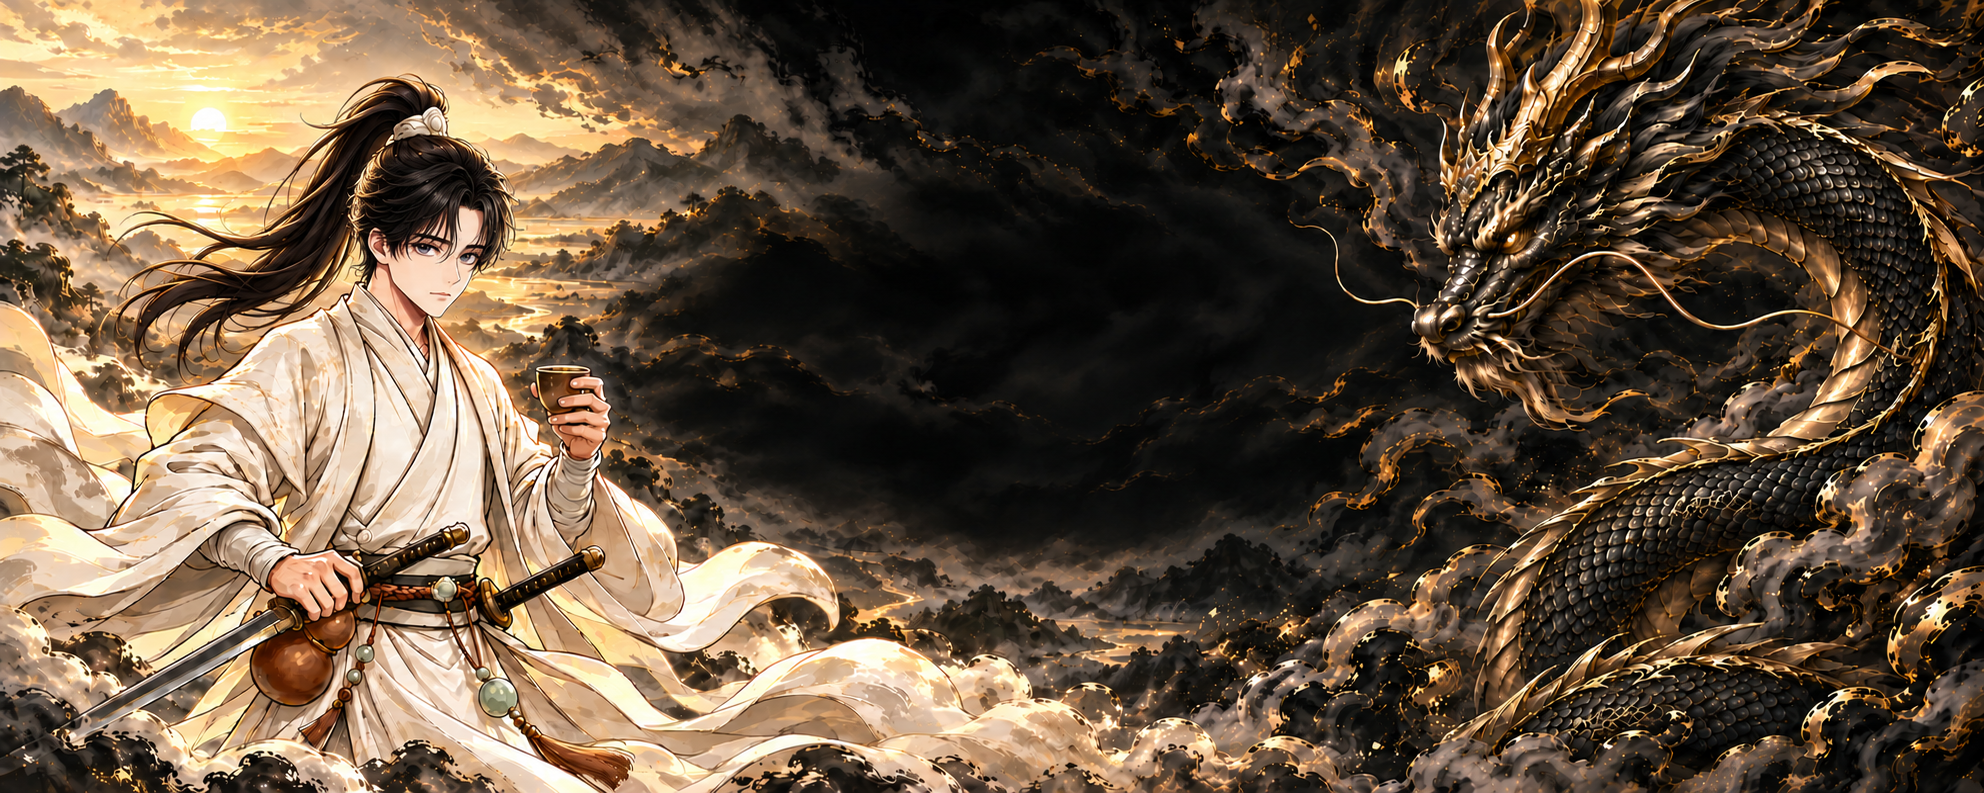
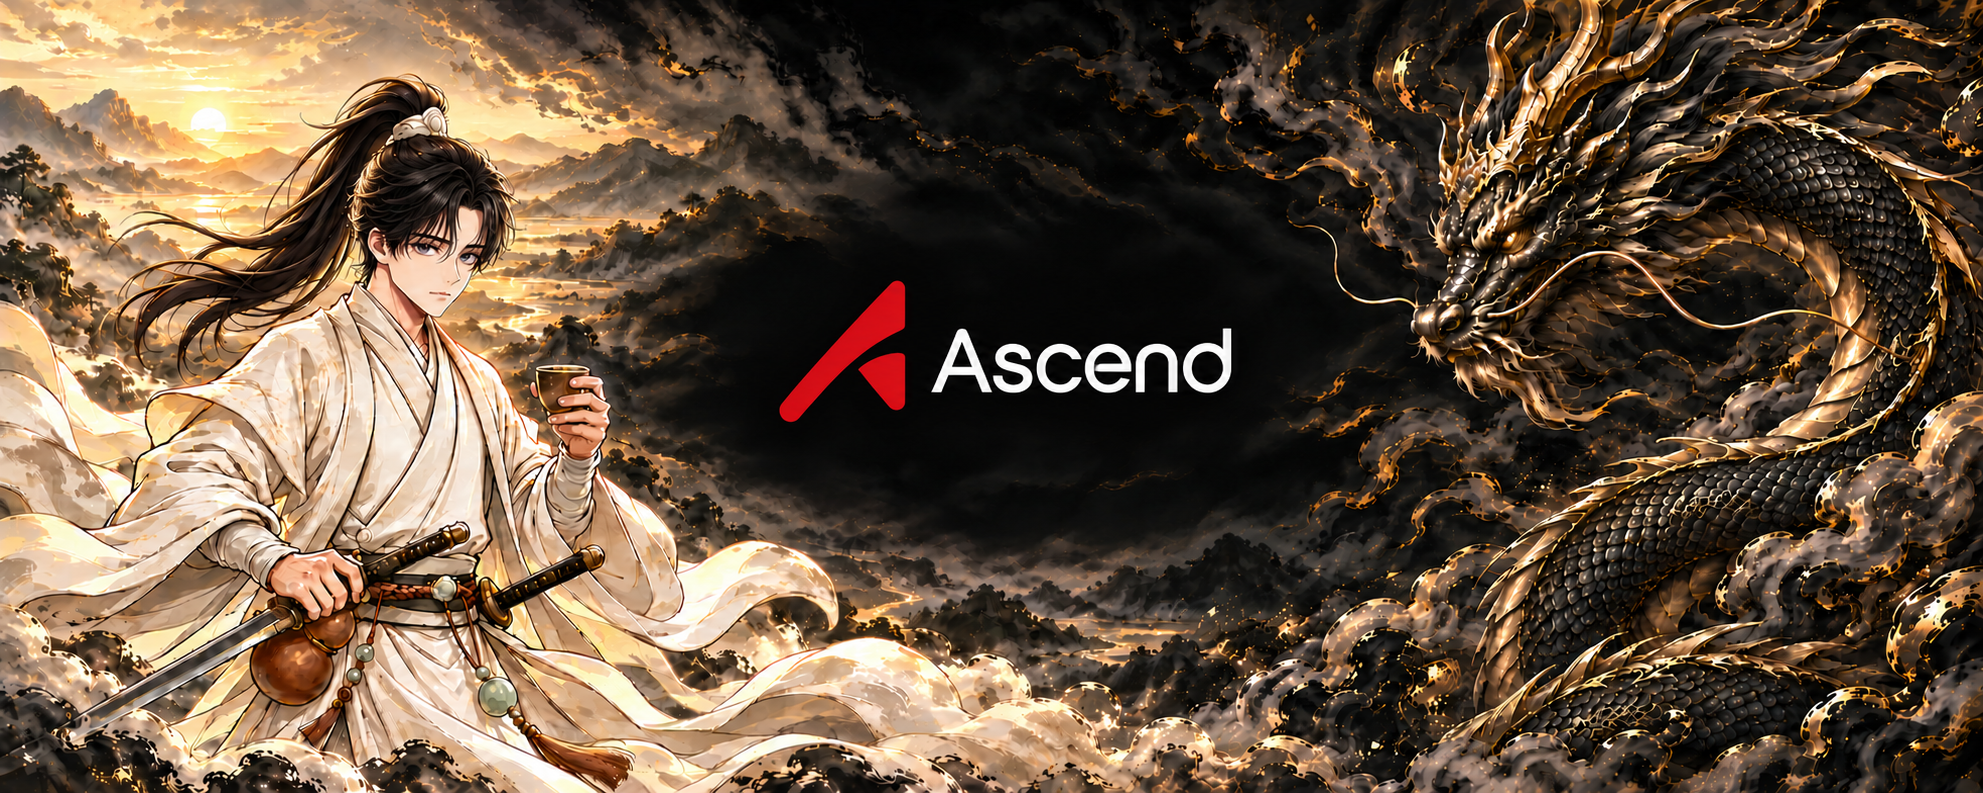
Add Ascend mark to profile artwork

diff --git a/README.md b/README.md
@@ -1,6 +1,6 @@
 <picture>
   <source media="(max-width: 600px)" srcset="assets/hero-mobile.png">
-  <img src="assets/hero.png" alt="白衣少年与黑金龙，无文字主视觉。">
+  <img src="assets/hero.png" alt="白衣少年、黑金龙与红色 Ascend 标识。">
 </picture>
 
 **ZhangDaWu / MortarGOD**
